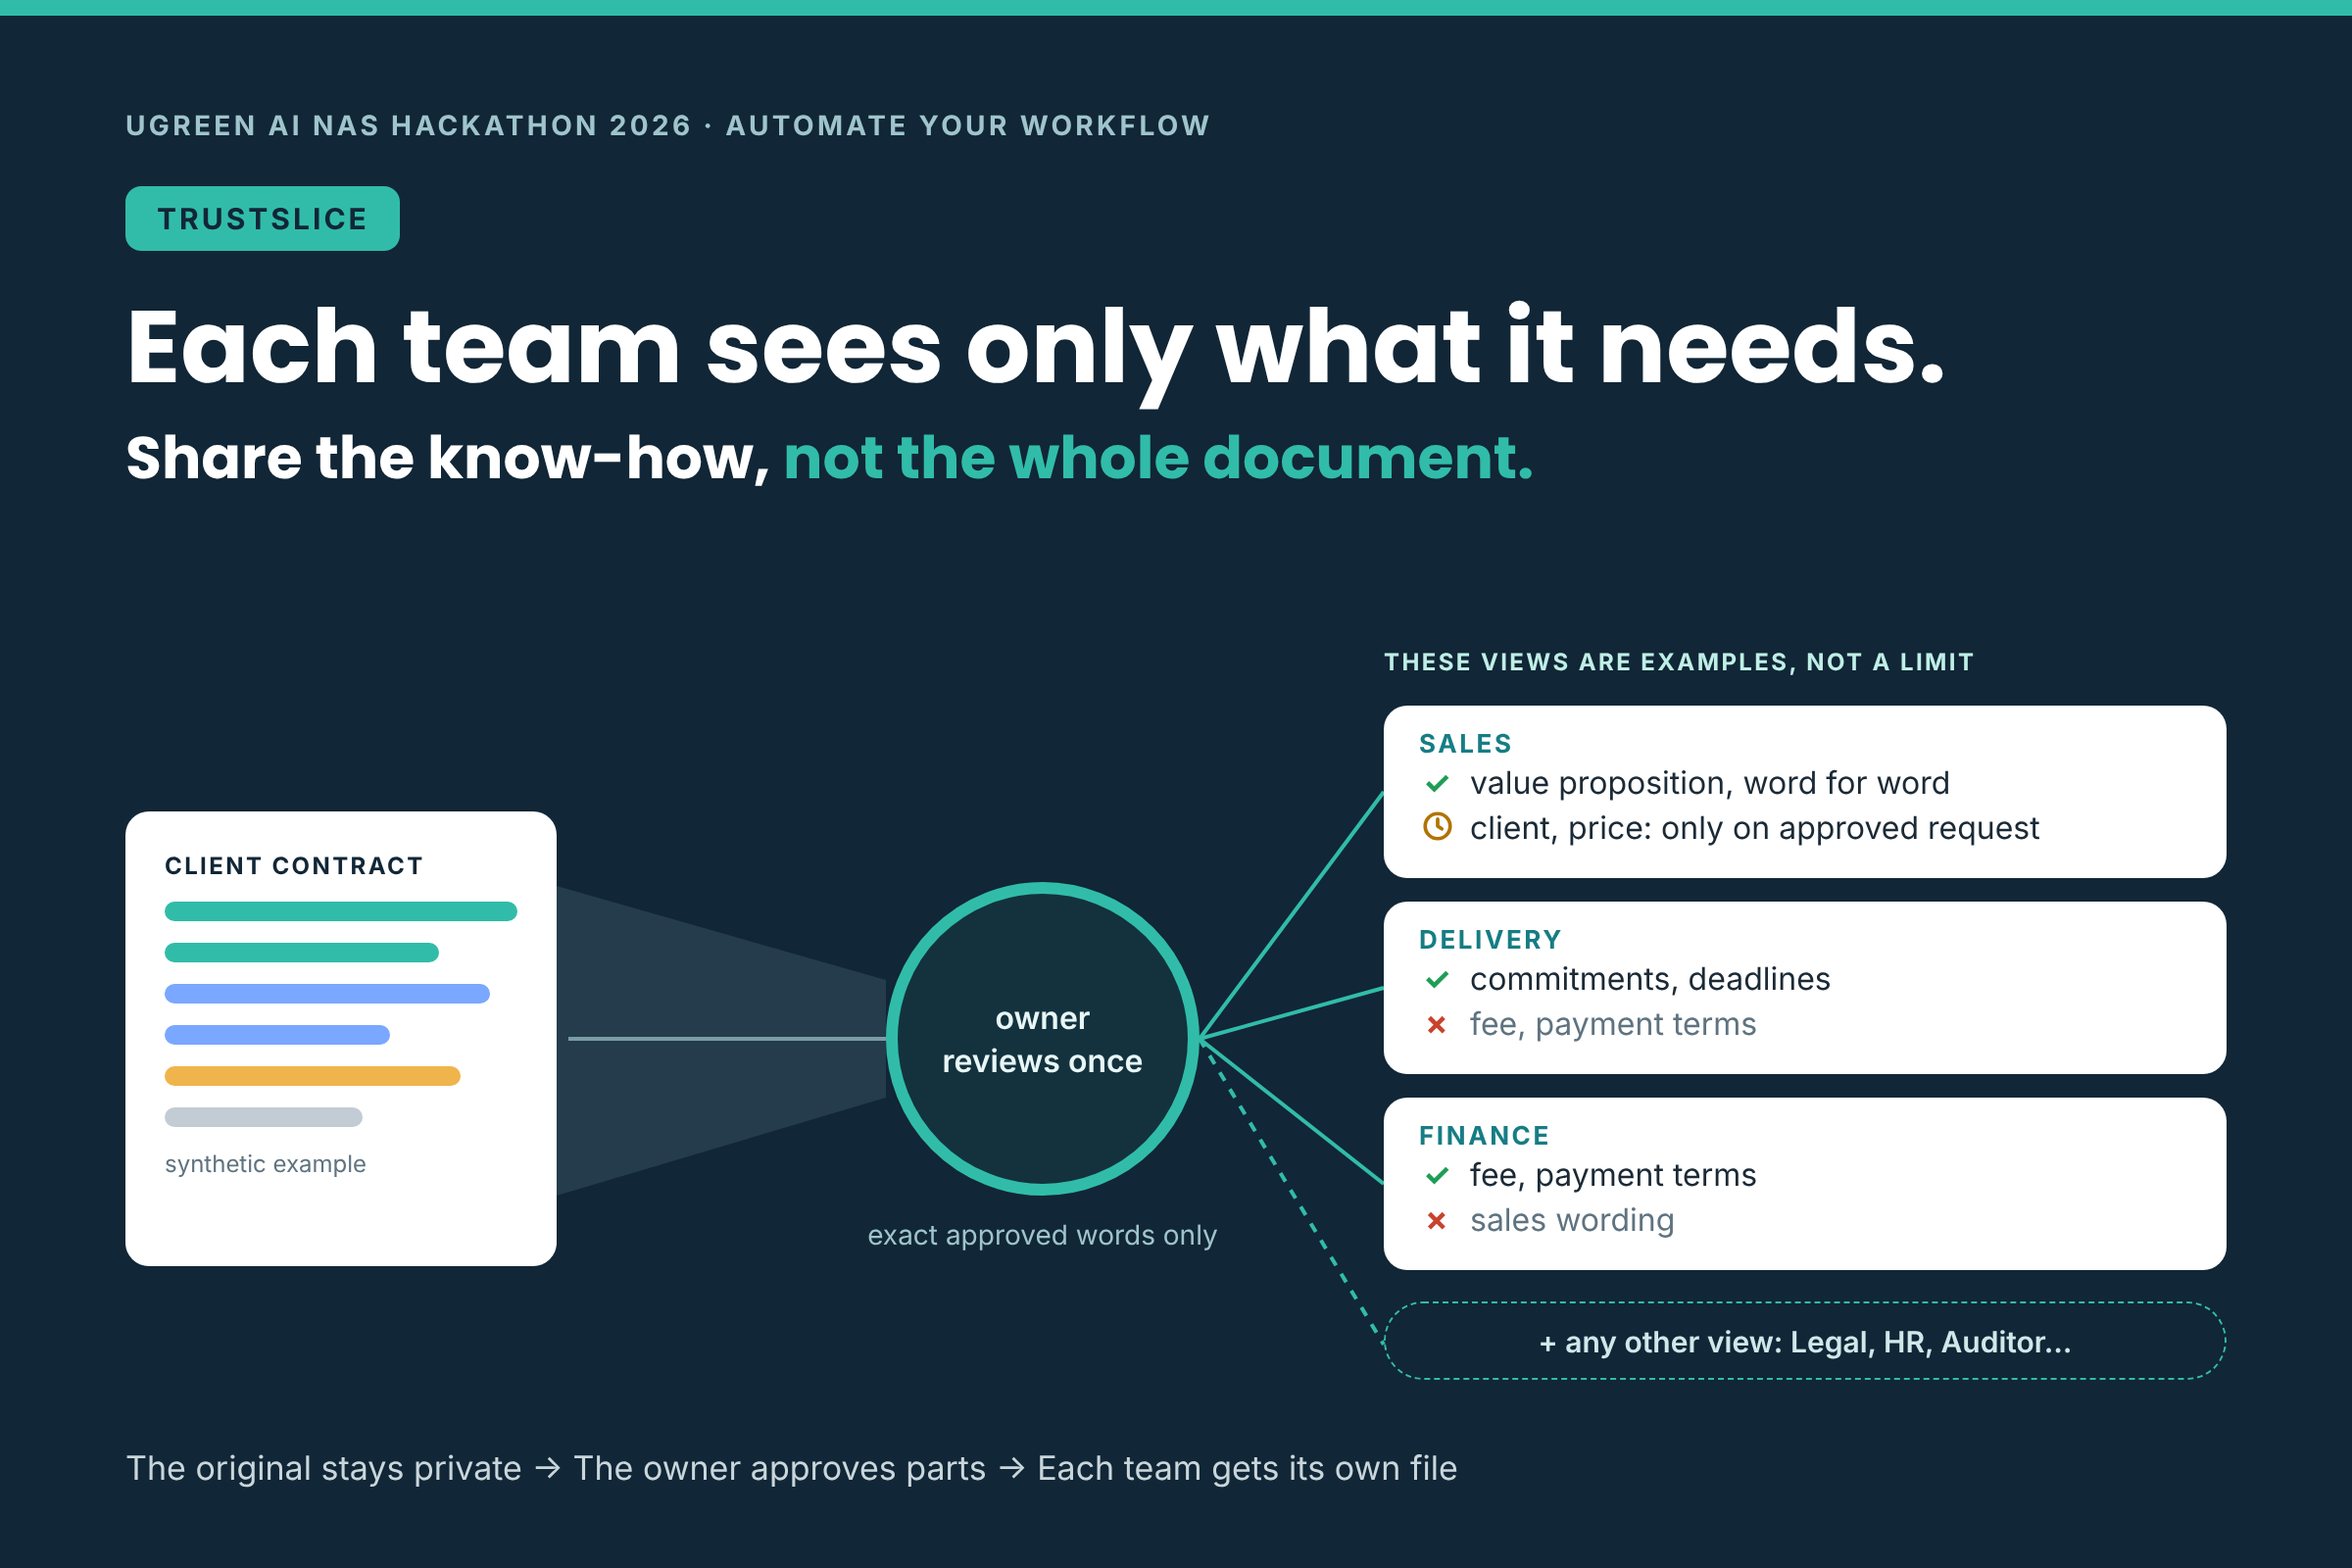
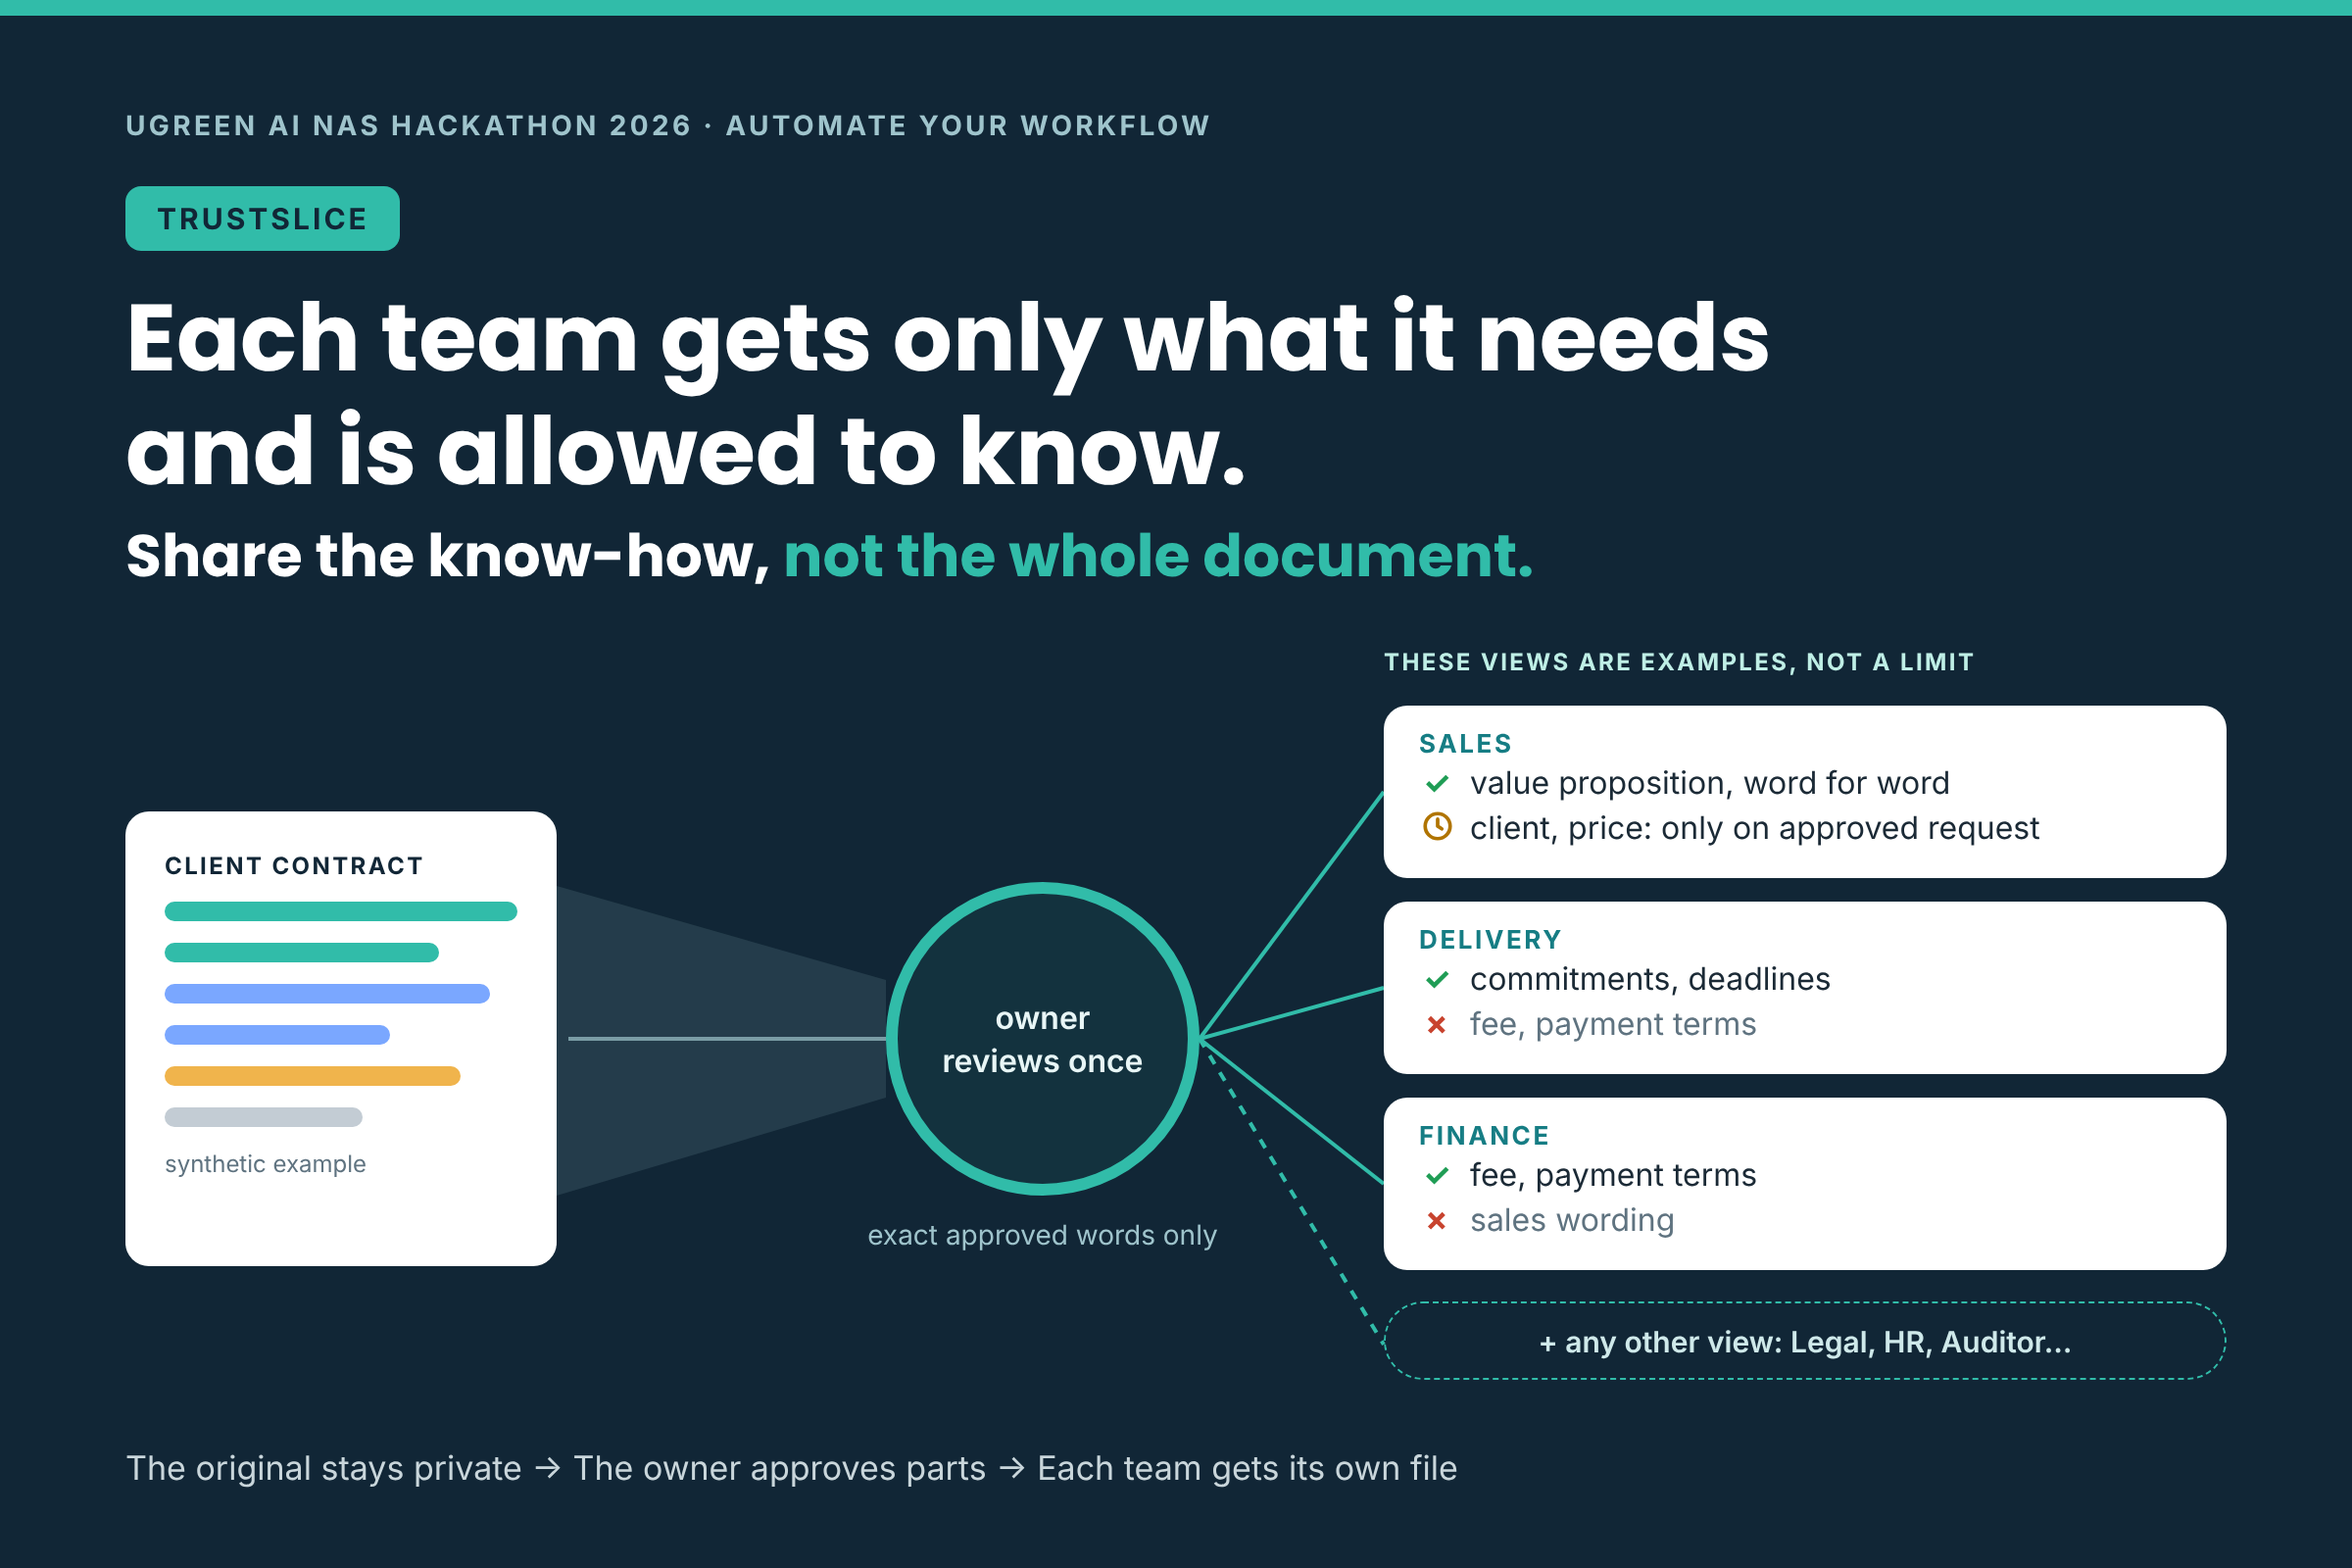
Headline: each team gets only what it needs and is allowed to know
- Elevator pitch, proposal cover, gallery image 01 and caption updated

Changed region(s): [[0.0312, 0.1875, 0.8438, 0.3125], [0.0312, 0.3438, 0.6562, 0.375]]

diff --git a/tools/pdf/make_pdf30.py b/tools/pdf/make_pdf30.py
@@ -65,13 +65,14 @@ def first_page(c, doc):
     c.roundRect(M, H - 52, 118, 22, 5, stroke=0, fill=1)
     c.setFillColor(NAVY); c.setFont("DVB", 9.5); c.drawString(M + 12, H - 44.5, C.HERO_PILL)
     from reportlab.pdfbase.pdfmetrics import stringWidth as sw
-    for txt, fn, fs in ((C.HERO_H1, "DVB", 21), (C.HERO_H2, "DVB", 13.5), (C.HERO_FLOW, "DV", 9.6),
+    for txt, fn, fs in ((C.HERO_H1[0], "DVB", 21), (C.HERO_H1[1], "DVB", 21), (C.HERO_H2, "DVB", 13.5), (C.HERO_FLOW, "DV", 9.6),
                         (C.HERO_SUB, "DV", 7.6), (C.CARDS_NOTE, "DVB", 6.6), (C.PAGE2_SUB, "DV", 7.8)):
         assert sw(txt, fn, fs) <= W - 2 * M, f"hero text too wide: {txt}"
-    c.setFillColor(white); c.setFont("DVB", 21); c.drawString(M, H - 90, C.HERO_H1)
-    c.setFillColor(MINT); c.setFont("DVB", 13.5); c.drawString(M, H - 116, C.HERO_H2)
-    c.setFillColor(HexColor("#DCE6EA")); c.setFont("DV", 9.6); c.drawString(M, H - 144, C.HERO_FLOW)
-    c.setFillColor(HexColor("#AFC0C7")); c.setFont("DV", 7.6); c.drawString(M, H - 170, C.HERO_SUB)
+    c.setFillColor(white); c.setFont("DVB", 21)
+    c.drawString(M, H - 84, C.HERO_H1[0]); c.drawString(M, H - 109, C.HERO_H1[1])
+    c.setFillColor(MINT); c.setFont("DVB", 13.5); c.drawString(M, H - 135, C.HERO_H2)
+    c.setFillColor(HexColor("#DCE6EA")); c.setFont("DV", 9.6); c.drawString(M, H - 160, C.HERO_FLOW)
+    c.setFillColor(HexColor("#AFC0C7")); c.setFont("DV", 7.6); c.drawString(M, H - 182, C.HERO_SUB)
     card_block(c)
     footer(c, 1)
     c.restoreState()

diff --git a/tools/gallery/gen_boards.py b/tools/gallery/gen_boards.py
@@ -64,7 +64,7 @@ BOARDS["Main"] = ("TrustSlice cover", "dark", f"""
 <div class="bar"></div>
 <div class="kick">UGREEN AI NAS HACKATHON 2026 · AUTOMATE YOUR WORKFLOW</div>
 <div style="margin-top:22px"><span class="pill">TRUSTSLICE</span></div>
-<div id="hero" style="font-family:Poppins,sans-serif;font-weight:700;font-size:52px;line-height:64px;margin-top:18px;white-space:nowrap">Each team sees only what it needs.</div>
+<div id="hero" style="font-family:Poppins,sans-serif;font-weight:700;font-size:48px;line-height:58px;margin-top:16px;white-space:nowrap">Each team gets only what it needs<br>and is allowed to know.</div>
 <div style="font-family:Poppins,sans-serif;font-weight:600;font-size:30px;line-height:40px;margin-top:4px">Share the know-how, <span style="color:{TEAL}">not the whole document.</span></div>
 <svg width="1200" height="800" viewBox="0 0 1200 800" style="position:absolute;left:0;top:0" aria-hidden="true">
   <polygon points="284,452 452,500 452,560 284,610" fill="#9FC4CC" fill-opacity="0.14"/>

diff --git a/tools/pdf/content30.py b/tools/pdf/content30.py
@@ -2,7 +2,7 @@
 VERSION = "v0.31"
 TITLE = "TrustSlice – Team Views of Confidential Documents"
 HERO_PILL = "TRUSTSLICE"
-HERO_H1 = "EACH TEAM SEES ONLY WHAT IT NEEDS."
+HERO_H1 = ("EACH TEAM GETS ONLY WHAT IT NEEDS", "AND IS ALLOWED TO KNOW.")   # one sentence, two lines
 HERO_H2 = "SHARE THE KNOW-HOW, NOT THE WHOLE DOCUMENT."
 HERO_FLOW = "The original stays private  →  The owner approves parts  →  Each team gets its own file"
 HERO_SUB = "TrustSlice  |  Team Views of Confidential Documents  |  UGREEN AI NAS"

diff --git a/tools/pdf/gen_md.py b/tools/pdf/gen_md.py
@@ -17,7 +17,7 @@ def sentence_case(text):
 
 out = sys.argv[1] if len(sys.argv) > 1 else "PROPOSAL.md"
 L = [f"# {C.TITLE} · Round 1 Proposal ({C.VERSION})", "",
-     f"**{sentence_case(C.HERO_H1)}** {sentence_case(C.HERO_H2)}", "",
+     f"**{sentence_case(' '.join(C.HERO_H1))}** {sentence_case(C.HERO_H2)}", "",
      C.HERO_FLOW.replace("  ", " "), "",
      "| Example view | Sees | Held back |", "|---|---|---|"]
 for t, sees, held in C.CARDS:

diff --git a/devpost/Devpost_Page_Text_v031.md b/devpost/Devpost_Page_Text_v031.md
@@ -3,14 +3,14 @@
 ## Project name
 TrustSlice – Team Views of Confidential Documents
 
-## Elevator pitch (183 characters, limit 200)
-Each team sees only the parts of a document it needs. TrustSlice lets the owner approve those parts word for word, without sharing the confidential original. It runs on UGREEN AI NAS.
+## Elevator pitch (182 characters, limit 200)
+Each team gets only what it needs and is allowed to know. The owner approves the parts word for word, and TrustSlice never shares the confidential original. It runs on UGREEN AI NAS.
 
 ## Cover headline / tagline
 Share the know-how, not the whole document.
 
 ## Image gallery (upload in this order; the text after each file name can serve as its caption)
-1. `01_Main.png`: Each team sees only what it needs. The views shown are examples.
+1. `01_Main.png`: Each team gets only what it needs and is allowed to know. The views shown are examples.
 2. `02_Views.png`: The table shows who sees which part of one contract. Sales, Delivery and Finance are examples, not a limit.
 3. `03_Flow.png`: Seven steps take a document from DEFINE to ASK, and the original is never edited.
 4. `04_Checks.png`: Nothing reaches a team folder before it is checked.

diff --git a/proposal/PROPOSAL.md b/proposal/PROPOSAL.md
@@ -1,6 +1,6 @@
 # TrustSlice – Team Views of Confidential Documents · Round 1 Proposal (v0.31)
 
-**Each team sees only what it needs.** Share the know-how, not the whole document.
+**Each team gets only what it needs and is allowed to know.** Share the know-how, not the whole document.
 
 The original stays private → The owner approves parts → Each team gets its own file
 
